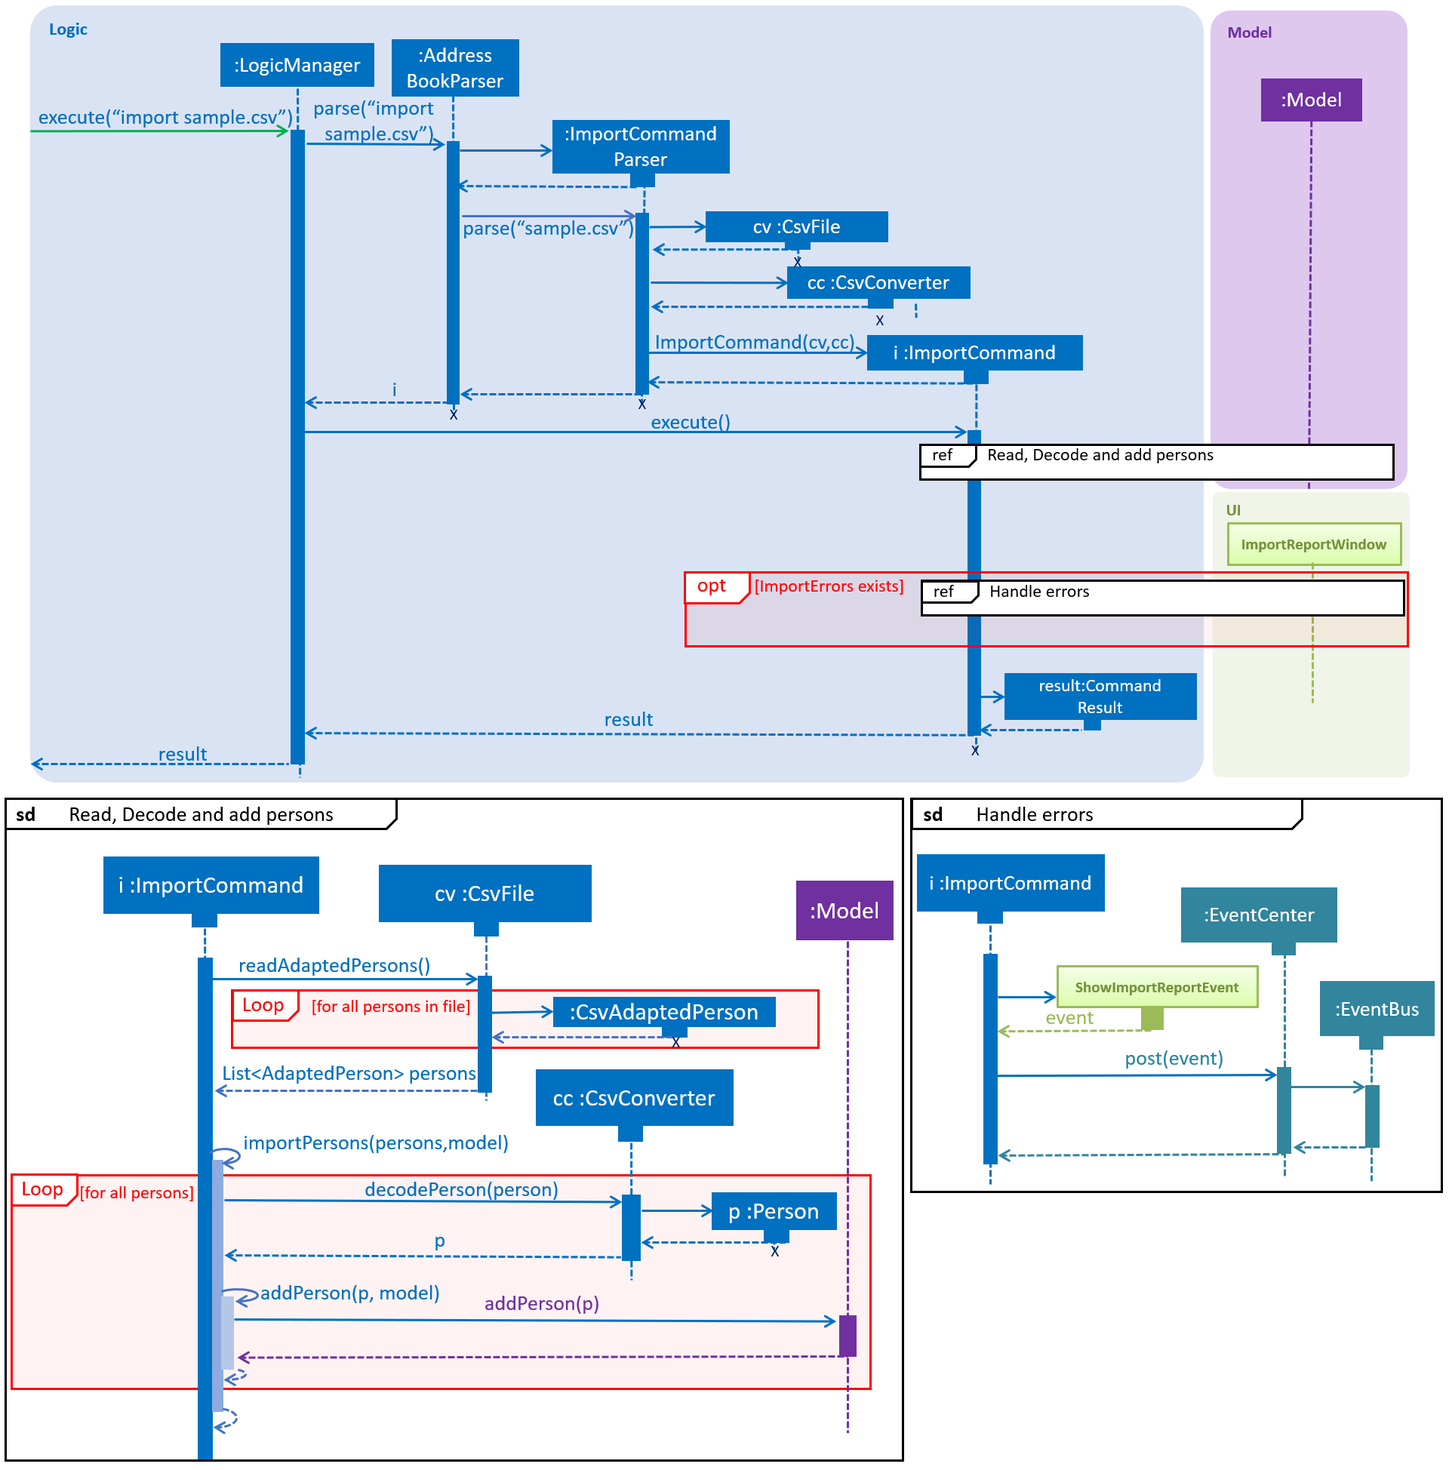
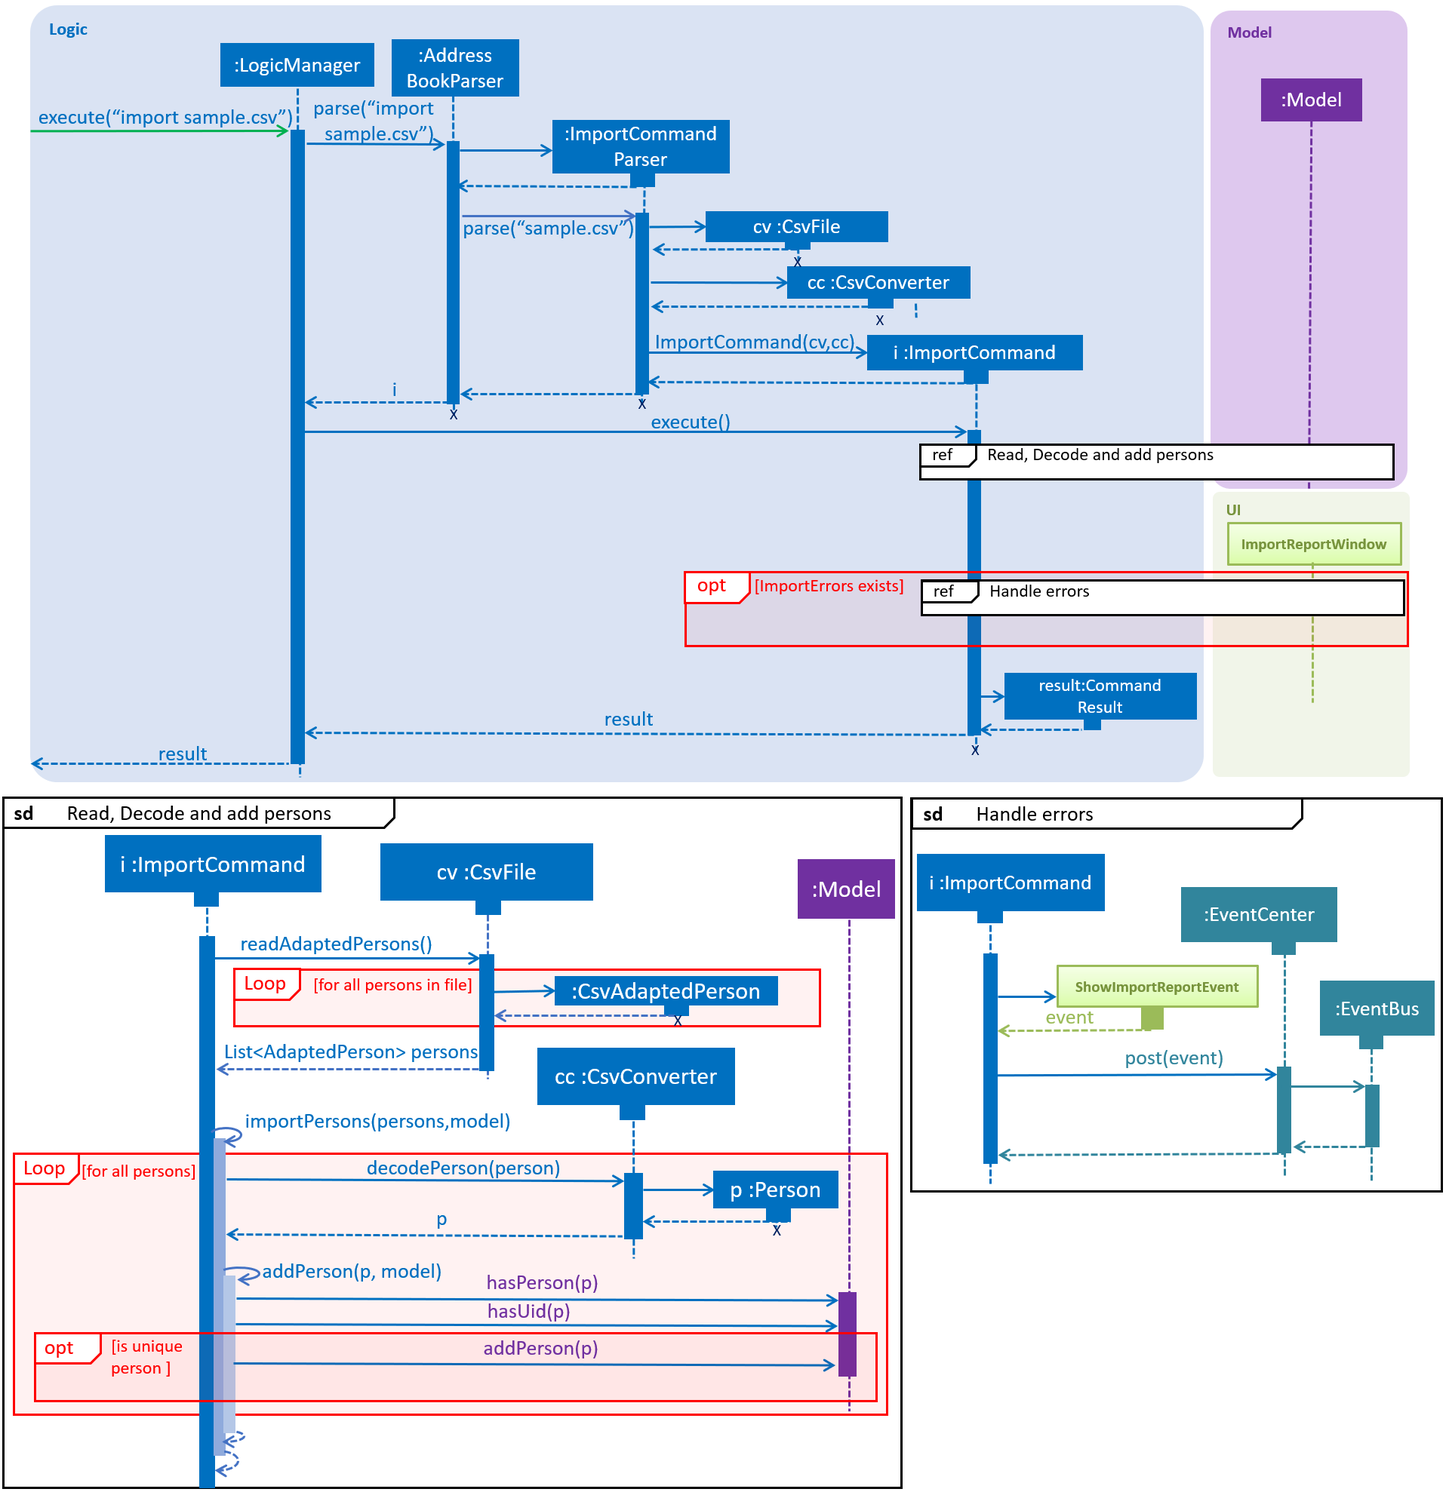
Rebuild pages at 49c006d384e5c1c3baa3c6ddbafb465fcd2ad529

diff --git a/team/wm28.html b/team/wm28.html
@@ -19,7 +19,7 @@
 </div>
 </div>
 <div class="paragraph">
-<p>Invités is a desktop application that helps people to organize and manage events. It simplifies and streamlines common event management tasks such as managing a guest list, attendance taking, QR code ticketing and mass email sending. With our application, event planners are able save time and effort as it offers a much more beginner friendly and specialized workflow as compared to its competition such as Microsoft Excel or Google Sheet. Furthermore, it is developed to be highly versatile and can be used to plan and manage a wide range of events from school camps to weddings.</p>
+<p>Invités is a desktop application that helps people to organize and manage events. It simplifies and streamlines common event management tasks such as managing a guest list, attendance taking, QR code ticketing and mass email sending. With our application, event planners are able save time and effort as it offers a much more beginner friendly and specialized workflow as compared to its competition such as Microsoft Excel or Google Sheet. It is also designed to be highly versatile and can be used to plan and manage a wide range of events from school camps to weddings.</p>
 </div>
 <div class="paragraph">
 <p>The application is developed in Java and has a graphical user interface created with JavaFX.</p>
@@ -30,7 +30,7 @@
 <div class="ulist">
 <ul>
 <li>
-<p><a href="http://github.com/aaryamNUS">Srivastava Aaryam</a>: Email communication</p>
+<p><a href="http://github.com/aaryamNUS">Srivastava Aaryam</a>: Mass email communication</p>
 </li>
 <li>
 <p><a href="http://github.com/SandhyaGopakumar">Sandhya Gopakumar</a>: Events management</p>
@@ -151,7 +151,7 @@
 <div class="sect2">
 <h3 id="import-guests-from-csv-file-code-import-code"><a class="link" href="#import-guests-from-csv-file-code-import-code">Import guests from CSV file : <code>import</code></a></h3>
 <div class="paragraph">
-<p>Imports multiple guests with data from a specified CSV file. To create your own CSV file for importing guests, please see <a href="#csvguestlistformat">Section 6: "CSV Guest List Format"</a> for the accepted format.<br></p>
+<p>Imports multiple guests with data from a specified CSV file. To create your own CSV file for importing guests, please see <a href="#csv-guest-list-format">Section 6: "CSV Guest List Format"</a> for the accepted format.<br></p>
 </div>
 <div class="paragraph">
 <p>Format: <code>import FILE_PATH</code></p>
@@ -231,7 +231,7 @@ You will populate the guest list with the data imported from the CSV file in the
 <div class="sect2">
 <h3 id="exporting-guests-to-csv-file-code-export-code"><a class="link" href="#exporting-guests-to-csv-file-code-export-code">Exporting guests to CSV file : <code>export</code></a></h3>
 <div class="paragraph">
-<p>Exports guests' data in the guest list to a specified CSV file. Allows you to share your guest list easily using the exported CSV file. The format of guest fields in the CSV file is the same format as the <code>import</code> command and can be found at <a href="#csvguestlistformat">Section 6: "CSV Guest List Format"</a>.<br></p>
+<p>Exports guests' data in the guest list to a specified CSV file. Allows you to share your guest list easily using the exported CSV file. The format of guest fields in the CSV file is the same format as the <code>import</code> command and can be found at <a href="#csv-guest-list-format">Section 6: "CSV Guest List Format"</a>.<br></p>
 </div>
 <div class="paragraph">
 <p>Format: <code>export FILE_PATH</code></p>
@@ -288,7 +288,7 @@ You will export the currently filtered guest list entries into a CSV file in the
 <p>The <code>import</code> and <code>export</code> command will only work with CSV files according to a predefined format. To create valid CSV files, guests fields must in the following format below and each guest must be entered on a new line.</p>
 </div>
 <div class="paragraph">
-<p>Format: <code>NAME,PHONE_NUMBER,EMAIL,PAYMENT,[TAG]</code></p>
+<p>Format: <code>NAME,PHONE_NUMBER,EMAIL,PAYMENT,UID,[TAG]</code></p>
 </div>
 <div class="admonitionblock warning">
 <table>
@@ -310,12 +310,9 @@ You will export the currently filtered guest list entries into a CSV file in the
 <div class="sidebarblock">
 <div class="content">
 <div class="paragraph">
-<p>David Li,91031282,lidavid@gmail.com,PENDING,ABSENT,gold,Veg,VIP<br>
-Irfan Ibrahim,92492021,irfan@gmail.com,PAID,PRESENT,gold,Veg,VIP<br>
-Roy Balakrishnan,92624417,royb@gmail.com,PENDING,ABSENT,gold,Veg,VIP<br>
-Hakeem Salgado,80000957,80000957@gmail.com,PAID,ABSENT,gold,Veg,VIP<br>
-Hibah Lees,80000882,80000882@gmail.com,PAID,ABSENT,gold,Veg,VIP<br>
-Jayda Hill,80000251,80000251@gmail.com,PAID,ABSENT,gold,Veg,VIP<br></p>
+<p>David Li,91031282,lidavid@gmail.com,PENDING,ABSENT,00000,gold,Veg,VIP<br>
+Irfan Ibrahim,92492021,irfan@gmail.com,PAID,PRESENT,1234,gold,Veg,VIP<br>
+Roy Balakrishnan,92624417,royb@gmail.com,PENDING,ABSENT,12,gold,Veg,VIP<br></p>
 </div>
 </div>
 </div>
@@ -410,7 +407,7 @@ Jayda Hill,80000251,80000251@gmail.com,PAID,ABSENT,gold,Veg,VIP<br></p>
 </div>
 <div class="imageblock">
 <div class="content">
-<img src="../images/ImportExportClassDiagram.PNG" alt="ImportExportClassDiagram">
+<img src="../images/ImportExportClassDiagram.PNG" alt="ImportExportClassDiagram" width="800">
 </div>
 </div>
 </div>
@@ -426,7 +423,7 @@ Jayda Hill,80000251,80000251@gmail.com,PAID,ABSENT,gold,Veg,VIP<br></p>
 <p>The following sequence diagram shows how the Import operation works:</p>
 </div>
 <div class="paragraph">
-<p><span class="image"><img src="../images/ImportCommandSequenceDiagram.PNG" alt="ImportCommandSequenceDiagram"></span></p>
+<p><span class="image"><img src="../images/ImportCommandSequenceDiagram.PNG" alt="ImportCommandSequenceDiagram" width="800"></span></p>
 </div>
 <div class="paragraph">
 <p>The <code>ShowImportReportEvent</code> will be handled by the <code>MainWindow</code> according to the following sequence diagram below.</p>
@@ -440,7 +437,7 @@ Jayda Hill,80000251,80000251@gmail.com,PAID,ABSENT,gold,Veg,VIP<br></p>
 </div>
 <div class="imageblock">
 <div class="content">
-<img src="../images/ExportCommandSequenceDiagram.PNG" alt="ExportCommandSequenceDiagram">
+<img src="../images/ExportCommandSequenceDiagram.PNG" alt="ExportCommandSequenceDiagram" width="800">
 </div>
 </div>
 </div>
@@ -516,4 +513,4 @@ Jayda Hill,80000251,80000251@gmail.com,PAID,ABSENT,gold,Veg,VIP<br></p>
 </div>
 </div>
 </div>
-</div></div><div id="footer"><div class="container"><div id="footer-text">Last updated 2018-11-11 15:40:18 UTC</div></div></div></body></html>
+</div></div><div id="footer"><div class="container"><div id="footer-text">Last updated 2018-11-11 16:22:37 UTC</div></div></div></body></html>

diff --git a/HelpWindow.html b/HelpWindow.html
@@ -440,7 +440,7 @@ name <code>david</code> <strong>but not</strong> <code>edan</code></p>
 <div class="sect2">
 <h3 id="import-guests-from-csv-file-code-import-code"><a class="link" href="#import-guests-from-csv-file-code-import-code">3.9. Import guests from CSV file : <code>import</code></a></h3>
 <div class="paragraph">
-<p>Imports multiple guests with data from a specified CSV file. To create your own CSV file for importing guests, please see <a href="#csvguestlistformat">Section 6: "CSV Guest List Format"</a> for the accepted format.<br></p>
+<p>Imports multiple guests with data from a specified CSV file. To create your own CSV file for importing guests, please see <a href="#csv-guest-list-format">Section 6: "CSV Guest List Format"</a> for the accepted format.<br></p>
 </div>
 <div class="paragraph">
 <p>Format: <code>import FILE_PATH</code></p>
@@ -520,7 +520,7 @@ You will populate the guest list with the data imported from the CSV file in the
 <div class="sect2">
 <h3 id="exporting-guests-to-csv-file-code-export-code"><a class="link" href="#exporting-guests-to-csv-file-code-export-code">3.10. Exporting guests to CSV file : <code>export</code></a></h3>
 <div class="paragraph">
-<p>Exports guests' data in the guest list to a specified CSV file. Allows you to share your guest list easily using the exported CSV file. The format of guest fields in the CSV file is the same format as the <code>import</code> command and can be found at <a href="#csvguestlistformat">Section 6: "CSV Guest List Format"</a>.<br></p>
+<p>Exports guests' data in the guest list to a specified CSV file. Allows you to share your guest list easily using the exported CSV file. The format of guest fields in the CSV file is the same format as the <code>import</code> command and can be found at <a href="#csv-guest-list-format">Section 6: "CSV Guest List Format"</a>.<br></p>
 </div>
 <div class="paragraph">
 <p>Format: <code>export FILE_PATH</code></p>
@@ -1288,7 +1288,7 @@ susceptible to an increased number of spam emails from untrusted applications. H
 <p>The <code>import</code> and <code>export</code> command will only work with CSV files according to a predefined format. To create valid CSV files, guests fields must in the following format below and each guest must be entered on a new line.</p>
 </div>
 <div class="paragraph">
-<p>Format: <code>NAME,PHONE_NUMBER,EMAIL,PAYMENT,[TAG]</code></p>
+<p>Format: <code>NAME,PHONE_NUMBER,EMAIL,PAYMENT,UID,[TAG]</code></p>
 </div>
 <div class="admonitionblock warning">
 <table>
@@ -1310,12 +1310,9 @@ susceptible to an increased number of spam emails from untrusted applications. H
 <div class="sidebarblock">
 <div class="content">
 <div class="paragraph">
-<p>David Li,91031282,lidavid@gmail.com,PENDING,ABSENT,gold,Veg,VIP<br>
-Irfan Ibrahim,92492021,irfan@gmail.com,PAID,PRESENT,gold,Veg,VIP<br>
-Roy Balakrishnan,92624417,royb@gmail.com,PENDING,ABSENT,gold,Veg,VIP<br>
-Hakeem Salgado,80000957,80000957@gmail.com,PAID,ABSENT,gold,Veg,VIP<br>
-Hibah Lees,80000882,80000882@gmail.com,PAID,ABSENT,gold,Veg,VIP<br>
-Jayda Hill,80000251,80000251@gmail.com,PAID,ABSENT,gold,Veg,VIP<br></p>
+<p>David Li,91031282,lidavid@gmail.com,PENDING,ABSENT,00000,gold,Veg,VIP<br>
+Irfan Ibrahim,92492021,irfan@gmail.com,PAID,PRESENT,1234,gold,Veg,VIP<br>
+Roy Balakrishnan,92624417,royb@gmail.com,PENDING,ABSENT,12,gold,Veg,VIP<br></p>
 </div>
 </div>
 </div>
@@ -1404,4 +1401,4 @@ Jayda Hill,80000251,80000251@gmail.com,PAID,ABSENT,gold,Veg,VIP<br></p>
 </ul>
 </div>
 </div>
-</div></div><div id="footer"><div class="container"><div id="footer-text">Last updated 2018-11-11 15:40:17 UTC</div></div></div></body></html>
+</div></div><div id="footer"><div class="container"><div id="footer-text">Last updated 2018-11-11 16:22:37 UTC</div></div></div></body></html>

diff --git a/UserGuide.html b/UserGuide.html
@@ -440,7 +440,7 @@ name <code>david</code> <strong>but not</strong> <code>edan</code></p>
 <div class="sect2">
 <h3 id="import-guests-from-csv-file-code-import-code"><a class="link" href="#import-guests-from-csv-file-code-import-code">3.9. Import guests from CSV file : <code>import</code></a></h3>
 <div class="paragraph">
-<p>Imports multiple guests with data from a specified CSV file. To create your own CSV file for importing guests, please see <a href="#csvguestlistformat">Section 6: "CSV Guest List Format"</a> for the accepted format.<br></p>
+<p>Imports multiple guests with data from a specified CSV file. To create your own CSV file for importing guests, please see <a href="#csv-guest-list-format">Section 6: "CSV Guest List Format"</a> for the accepted format.<br></p>
 </div>
 <div class="paragraph">
 <p>Format: <code>import FILE_PATH</code></p>
@@ -520,7 +520,7 @@ You will populate the guest list with the data imported from the CSV file in the
 <div class="sect2">
 <h3 id="exporting-guests-to-csv-file-code-export-code"><a class="link" href="#exporting-guests-to-csv-file-code-export-code">3.10. Exporting guests to CSV file : <code>export</code></a></h3>
 <div class="paragraph">
-<p>Exports guests' data in the guest list to a specified CSV file. Allows you to share your guest list easily using the exported CSV file. The format of guest fields in the CSV file is the same format as the <code>import</code> command and can be found at <a href="#csvguestlistformat">Section 6: "CSV Guest List Format"</a>.<br></p>
+<p>Exports guests' data in the guest list to a specified CSV file. Allows you to share your guest list easily using the exported CSV file. The format of guest fields in the CSV file is the same format as the <code>import</code> command and can be found at <a href="#csv-guest-list-format">Section 6: "CSV Guest List Format"</a>.<br></p>
 </div>
 <div class="paragraph">
 <p>Format: <code>export FILE_PATH</code></p>
@@ -1288,7 +1288,7 @@ susceptible to an increased number of spam emails from untrusted applications. H
 <p>The <code>import</code> and <code>export</code> command will only work with CSV files according to a predefined format. To create valid CSV files, guests fields must in the following format below and each guest must be entered on a new line.</p>
 </div>
 <div class="paragraph">
-<p>Format: <code>NAME,PHONE_NUMBER,EMAIL,PAYMENT,[TAG]</code></p>
+<p>Format: <code>NAME,PHONE_NUMBER,EMAIL,PAYMENT,UID,[TAG]</code></p>
 </div>
 <div class="admonitionblock warning">
 <table>
@@ -1310,12 +1310,9 @@ susceptible to an increased number of spam emails from untrusted applications. H
 <div class="sidebarblock">
 <div class="content">
 <div class="paragraph">
-<p>David Li,91031282,lidavid@gmail.com,PENDING,ABSENT,gold,Veg,VIP<br>
-Irfan Ibrahim,92492021,irfan@gmail.com,PAID,PRESENT,gold,Veg,VIP<br>
-Roy Balakrishnan,92624417,royb@gmail.com,PENDING,ABSENT,gold,Veg,VIP<br>
-Hakeem Salgado,80000957,80000957@gmail.com,PAID,ABSENT,gold,Veg,VIP<br>
-Hibah Lees,80000882,80000882@gmail.com,PAID,ABSENT,gold,Veg,VIP<br>
-Jayda Hill,80000251,80000251@gmail.com,PAID,ABSENT,gold,Veg,VIP<br></p>
+<p>David Li,91031282,lidavid@gmail.com,PENDING,ABSENT,00000,gold,Veg,VIP<br>
+Irfan Ibrahim,92492021,irfan@gmail.com,PAID,PRESENT,1234,gold,Veg,VIP<br>
+Roy Balakrishnan,92624417,royb@gmail.com,PENDING,ABSENT,12,gold,Veg,VIP<br></p>
 </div>
 </div>
 </div>
@@ -1404,4 +1401,4 @@ Jayda Hill,80000251,80000251@gmail.com,PAID,ABSENT,gold,Veg,VIP<br></p>
 </ul>
 </div>
 </div>
-</div></div><div id="footer"><div class="container"><div id="footer-text">Last updated 2018-11-11 15:40:17 UTC</div></div></div></body></html>
+</div></div><div id="footer"><div class="container"><div id="footer-text">Last updated 2018-11-11 16:22:37 UTC</div></div></div></body></html>

diff --git a/DeveloperGuide.html b/DeveloperGuide.html
@@ -1311,7 +1311,7 @@ The sequence diagram uses the case of addTag() to highlight how the application 
 </div>
 <div class="imageblock">
 <div class="content">
-<img src="images/ImportExportClassDiagram.PNG" alt="ImportExportClassDiagram">
+<img src="images/ImportExportClassDiagram.PNG" alt="ImportExportClassDiagram" width="800">
 </div>
 </div>
 </div>
@@ -1327,7 +1327,7 @@ The sequence diagram uses the case of addTag() to highlight how the application 
 <p>The following sequence diagram shows how the Import operation works:</p>
 </div>
 <div class="paragraph">
-<p><span class="image"><img src="images/ImportCommandSequenceDiagram.PNG" alt="ImportCommandSequenceDiagram"></span></p>
+<p><span class="image"><img src="images/ImportCommandSequenceDiagram.PNG" alt="ImportCommandSequenceDiagram" width="800"></span></p>
 </div>
 <div class="paragraph">
 <p>The <code>ShowImportReportEvent</code> will be handled by the <code>MainWindow</code> according to the following sequence diagram below.</p>
@@ -1341,7 +1341,7 @@ The sequence diagram uses the case of addTag() to highlight how the application 
 </div>
 <div class="imageblock">
 <div class="content">
-<img src="images/ExportCommandSequenceDiagram.PNG" alt="ExportCommandSequenceDiagram">
+<img src="images/ExportCommandSequenceDiagram.PNG" alt="ExportCommandSequenceDiagram" width="800">
 </div>
 </div>
 </div>
@@ -2730,4 +2730,4 @@ Status bar remains the same.</p>
 </div>
 </div>
 </div>
-</div></div><div id="footer"><div class="container"><div id="footer-text">Last updated 2018-11-11 15:40:17 UTC</div></div></div></body></html>
+</div></div><div id="footer"><div class="container"><div id="footer-text">Last updated 2018-11-11 16:22:37 UTC</div></div></div></body></html>

diff --git a/AboutUs.html b/AboutUs.html
@@ -24,7 +24,7 @@ We are a team based in the <a href="http://www.comp.nus.edu.sg">School of Comput
 </div>
 <div class="paragraph">
 <p>Role: Team lead<br>
-Responsibilities: Mass email sending functionality</p>
+Responsibilities: Mass email communication</p>
 </div>
 <hr>
 </div>
@@ -40,7 +40,7 @@ Responsibilities: Mass email sending functionality</p>
 </div>
 <div class="paragraph">
 <p>Role: Developer<br>
-Responsibilities: Events functionality</p>
+Responsibilities: Events management</p>
 </div>
 <hr>
 </div>
@@ -56,7 +56,7 @@ Responsibilities: Events functionality</p>
 </div>
 <div class="paragraph">
 <p>Role: Developer<br>
-Responsibilities: Data filtering</p>
+Responsibilities: Guest list management</p>
 </div>
 <hr>
 </div>
@@ -72,7 +72,7 @@ Responsibilities: Data filtering</p>
 </div>
 <div class="paragraph">
 <p>Role: Developer<br>
-Responsibilities: Attendance taking functionality</p>
+Responsibilities: Attendance management</p>
 </div>
 <hr>
 </div>
@@ -88,9 +88,9 @@ Responsibilities: Attendance taking functionality</p>
 </div>
 <div class="paragraph">
 <p>Role: Developer<br>
-Responsibilities: Data importation</p>
+Responsibilities: Data sharing</p>
 </div>
 <hr>
 </div>
 </div>
-</div></div><div id="footer"><div class="container"><div id="footer-text">Last updated 2018-11-11 15:40:17 UTC</div></div></div></body></html>
+</div></div><div id="footer"><div class="container"><div id="footer-text">Last updated 2018-11-11 16:22:37 UTC</div></div></div></body></html>

diff --git a/team/johndoe.html b/team/johndoe.html
@@ -440,4 +440,4 @@ If the <code>currentStatePointer</code> is at index <code>addressBookStateList.s
 <p><em>{Optionally, you may include other projects in your portfolio.}</em></p>
 </div>
 </div>
-</div></div><div id="footer"><div class="container"><div id="footer-text">Last updated 2018-11-11 15:40:18 UTC</div></div></div></body></html>
+</div></div><div id="footer"><div class="container"><div id="footer-text">Last updated 2018-11-11 16:22:37 UTC</div></div></div></body></html>

diff --git a/team/SandhyaGopakumar.html b/team/SandhyaGopakumar.html
@@ -453,4 +453,4 @@ The <code>edit_event</code> command uses <code>Model#hasEvent()</code> to check 
 </div>
 </div>
 </div>
-</div></div><div id="footer"><div class="container"><div id="footer-text">Last updated 2018-11-11 15:40:18 UTC</div></div></div></body></html>
+</div></div><div id="footer"><div class="container"><div id="footer-text">Last updated 2018-11-11 16:22:37 UTC</div></div></div></body></html>

diff --git a/team/aaryamnus.html b/team/aaryamnus.html
@@ -616,4 +616,4 @@ The sequence diagram uses the case of addTag() to highlight how the application 
 </div>
 </div>
 </div>
-</div></div><div id="footer"><div class="container"><div id="footer-text">Last updated 2018-11-11 15:40:18 UTC</div></div></div></body></html>
+</div></div><div id="footer"><div class="container"><div id="footer-text">Last updated 2018-11-11 16:22:37 UTC</div></div></div></body></html>

diff --git a/team/sandhyagopakumar.html b/team/sandhyagopakumar.html
@@ -453,4 +453,4 @@ The <code>edit_event</code> command uses <code>Model#hasEvent()</code> to check 
 </div>
 </div>
 </div>
-</div></div><div id="footer"><div class="container"><div id="footer-text">Last updated 2018-11-11 15:40:18 UTC</div></div></div></body></html>
+</div></div><div id="footer"><div class="container"><div id="footer-text">Last updated 2018-11-11 16:22:37 UTC</div></div></div></body></html>

diff --git a/team/tantzeguang.html b/team/tantzeguang.html
@@ -316,4 +316,4 @@ If there is no matching phone number found, a <code>COMMANDEXCEPTION</code> will
 </div>
 </div>
 </div>
-</div></div><div id="footer"><div class="container"><div id="footer-text">Last updated 2018-11-11 15:40:18 UTC</div></div></div></body></html>
+</div></div><div id="footer"><div class="container"><div id="footer-text">Last updated 2018-11-11 16:22:37 UTC</div></div></div></body></html>

diff --git a/UsingGradle.html b/UsingGradle.html
@@ -255,4 +255,4 @@ See <code>build.gradle</code> &#8594; <code>allprojects</code> &#8594; <code>dep
 </ul>
 </div>
 </div>
-</div></div><div id="footer"><div class="container"><div id="footer-text">Last updated 2018-11-11 15:40:17 UTC</div></div></div></body></html>
+</div></div><div id="footer"><div class="container"><div id="footer-text">Last updated 2018-11-11 16:22:37 UTC</div></div></div></body></html>

diff --git a/UsingNetlify.html b/UsingNetlify.html
@@ -123,4 +123,4 @@ The publish directory is the directory in which the built HTML documentation res
 </ol>
 </div>
 </div>
-</div></div><div id="footer"><div class="container"><div id="footer-text">Last updated 2018-11-11 15:40:17 UTC</div></div></div></body></html>
+</div></div><div id="footer"><div class="container"><div id="footer-text">Last updated 2018-11-11 16:22:37 UTC</div></div></div></body></html>
